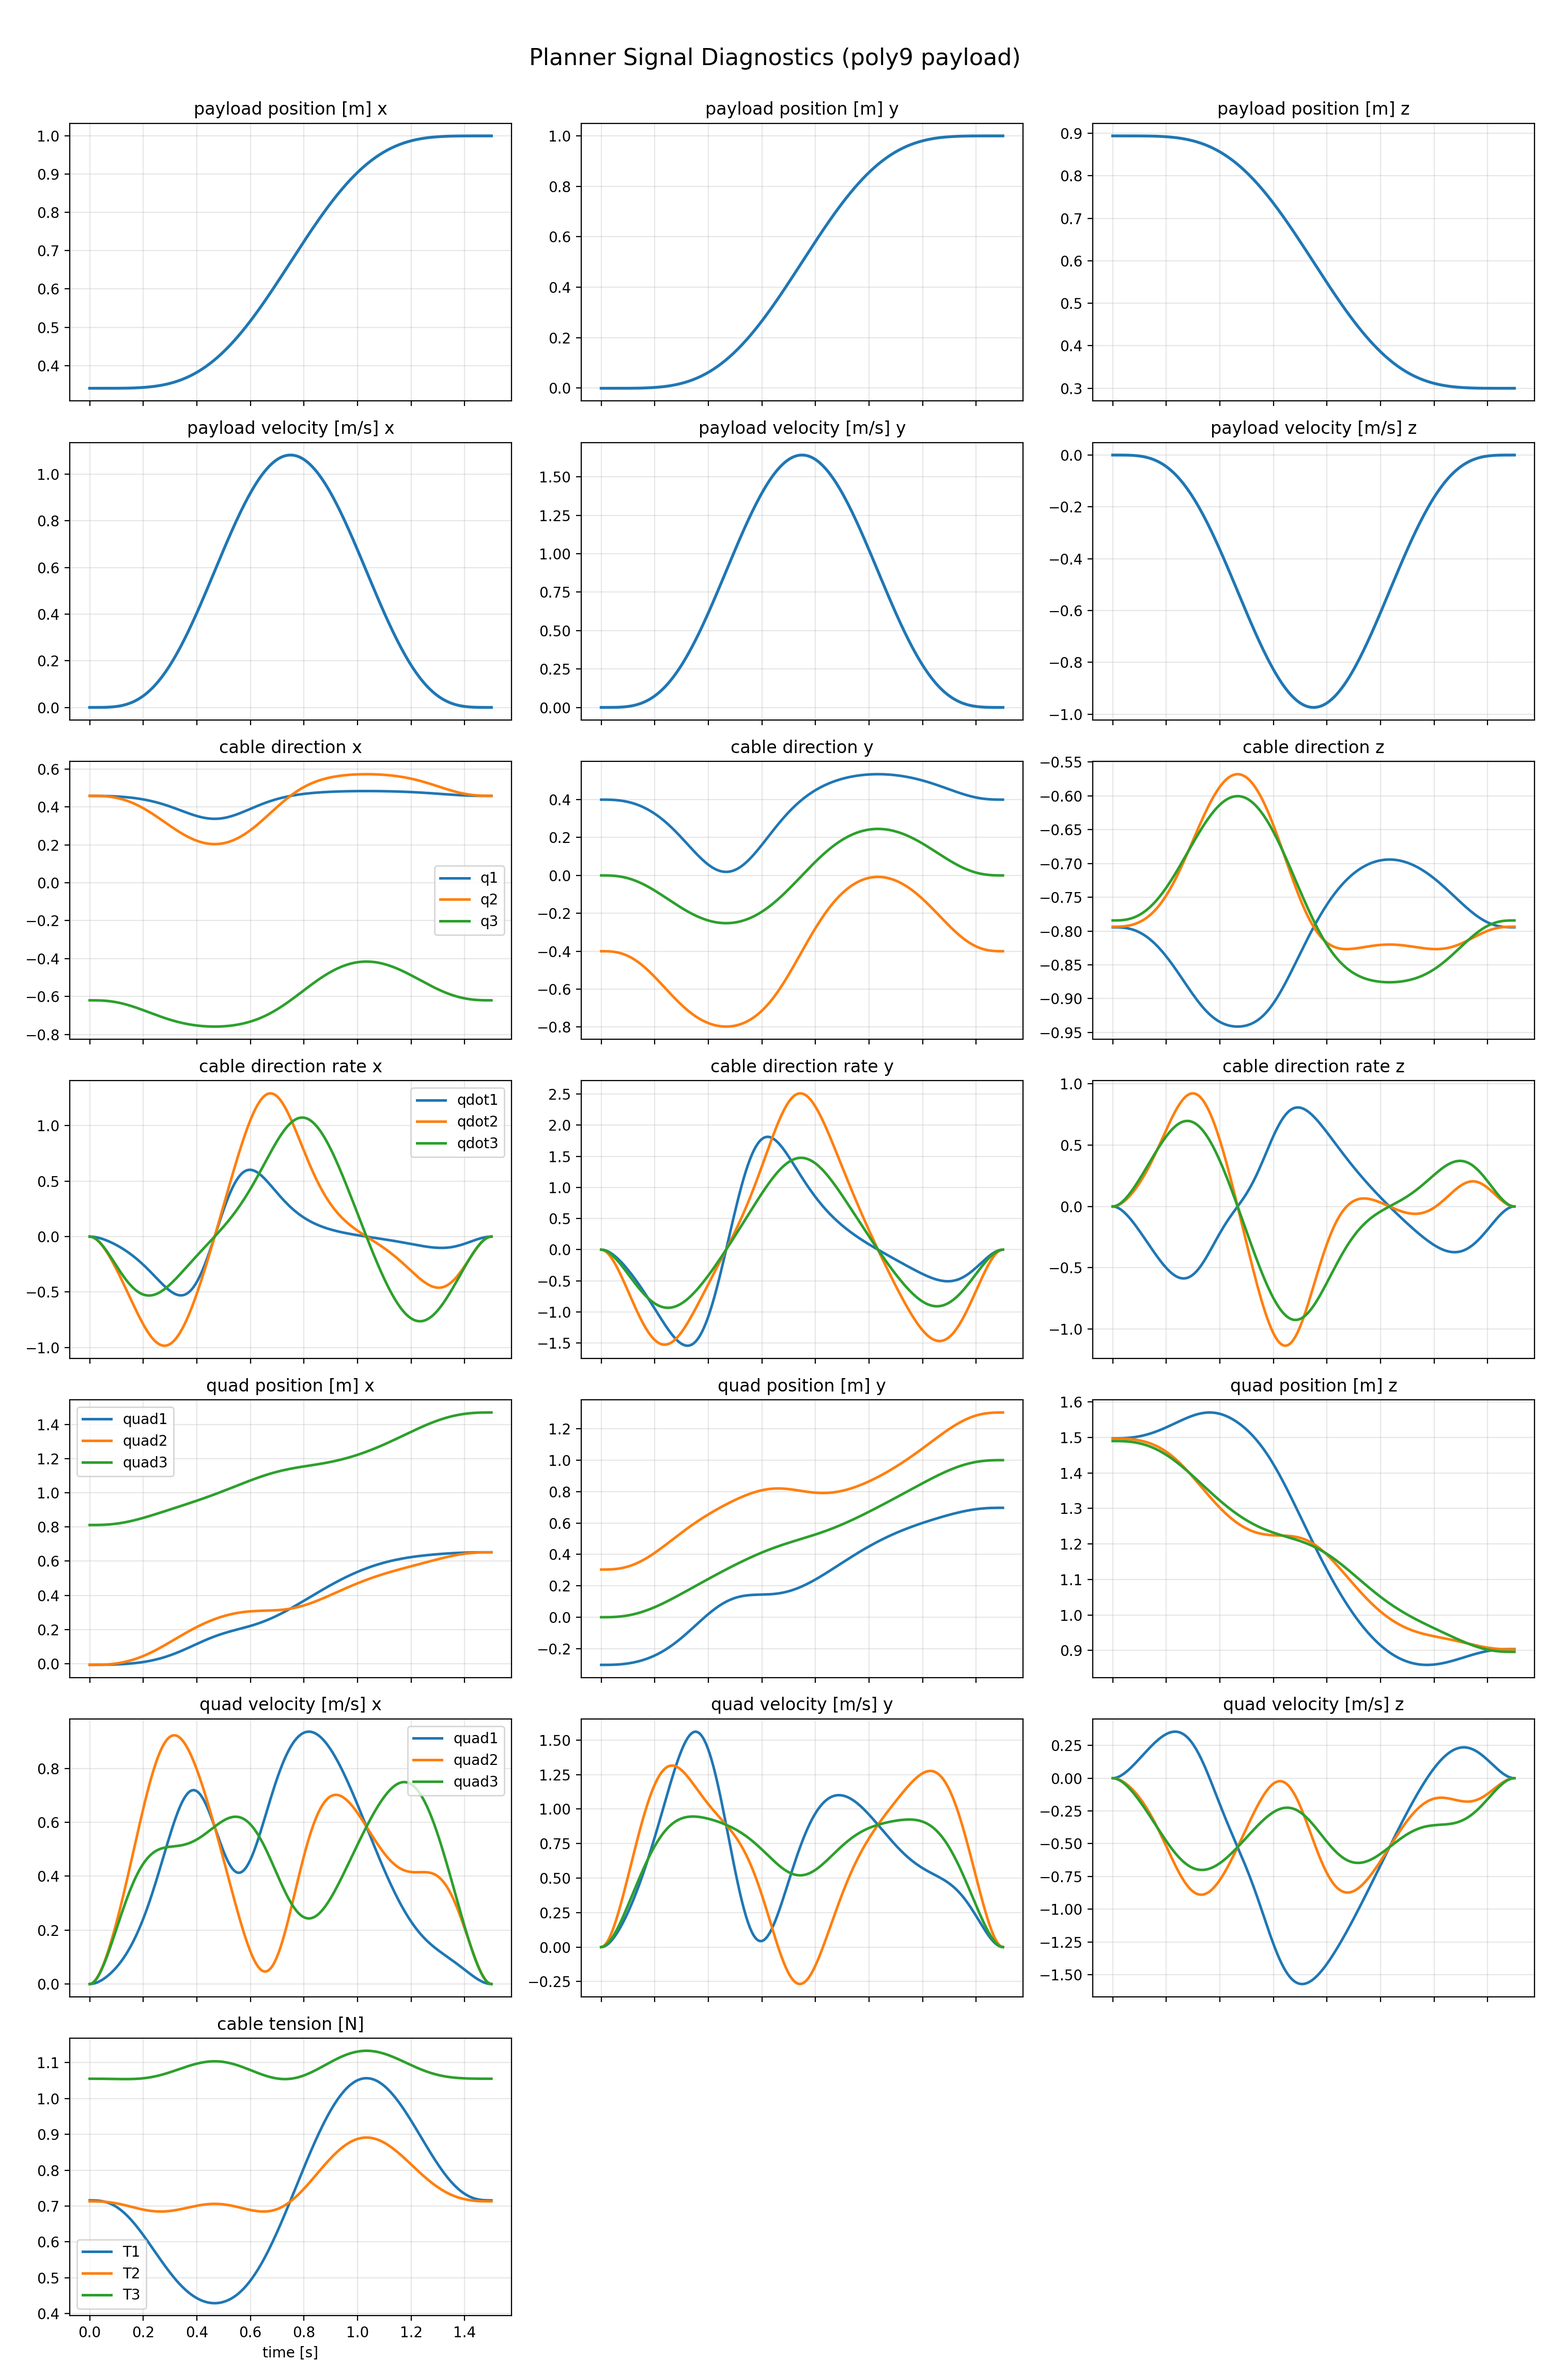
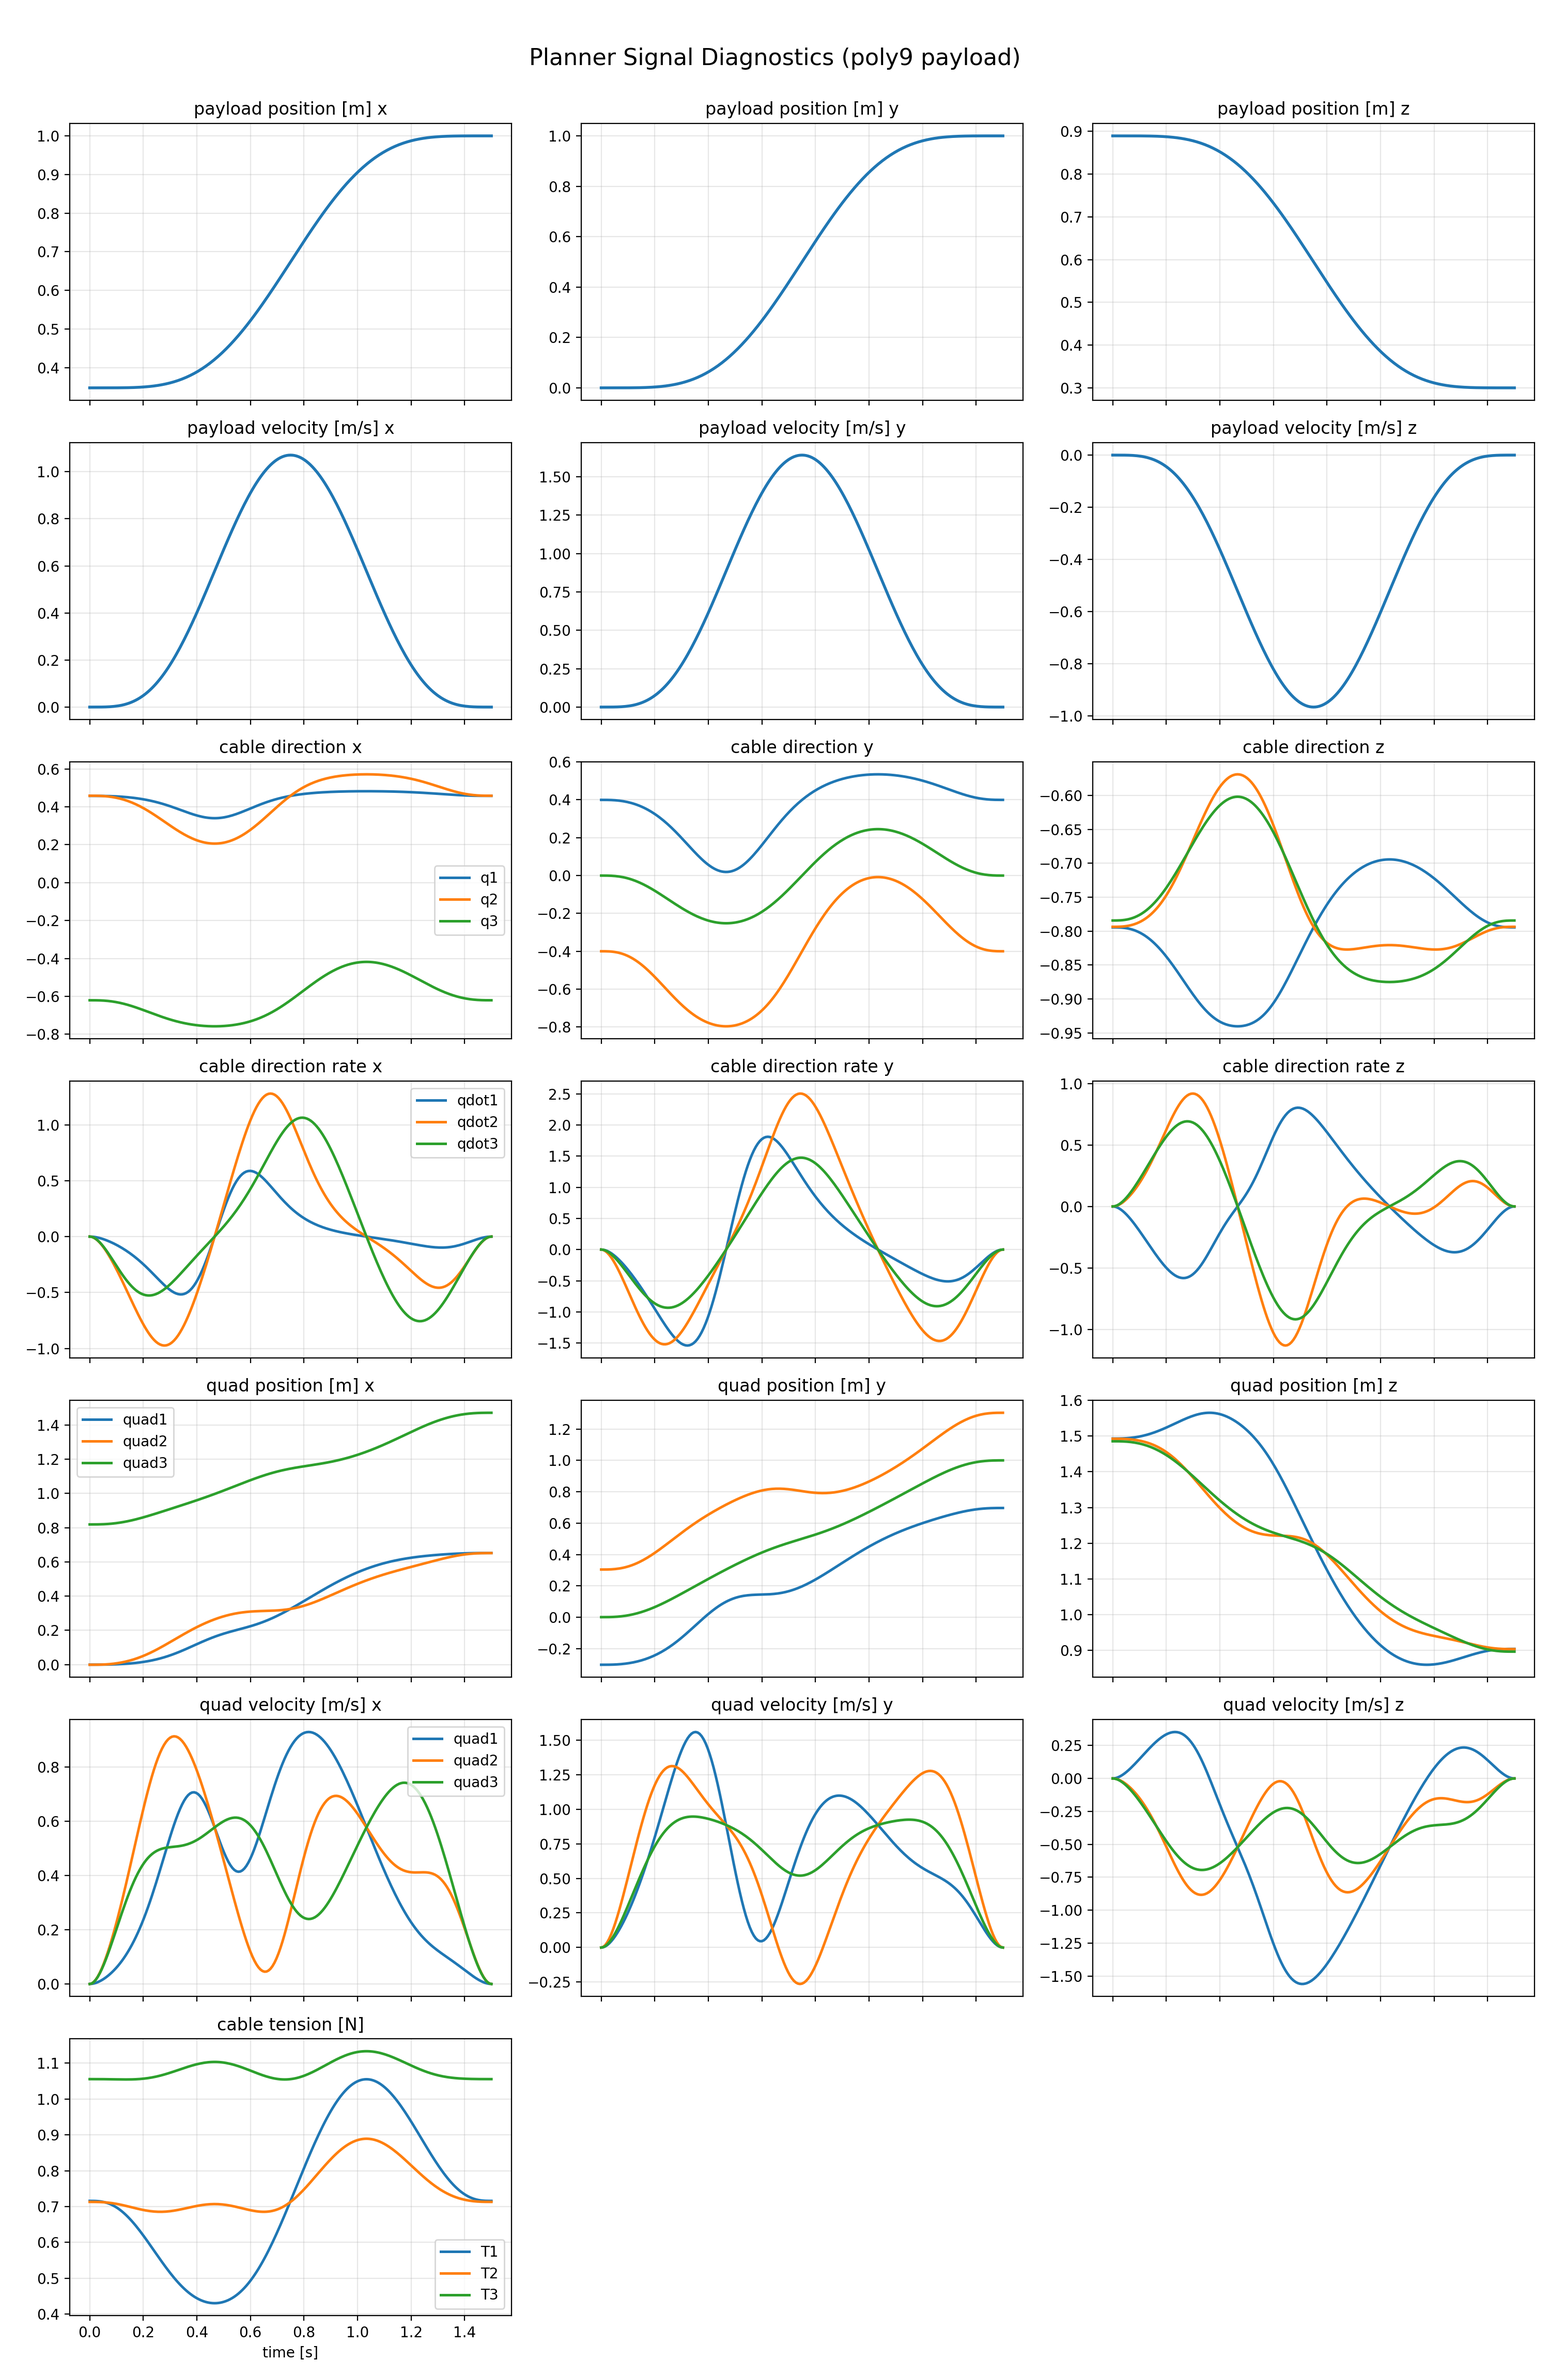
backup

Changed region(s): [[0.124, 0.8393, 0.155, 0.8704]]

diff --git a/payload_pointmass_multiple_quadrotor/point_mass_acceleration.py b/payload_pointmass_multiple_quadrotor/point_mass_acceleration.py
@@ -31,21 +31,12 @@ class PayloadControlMujocoMultiplePointMass(Node):
         super().__init__('MultiplePointMass')
 
         # Runtime parameters (mirrors dq_nmpc style parameterization).
-        self.declare_parameter('planner.ts', 0.05)
-        self.declare_parameter('planner.horizon_time', 2.0)
-        self.declare_parameter('nmpc.jerk_limit', [1.0, 1.0, 1.0, 1.0, 1.0, 1.0, 1.0, 1.0, 1.0])
-        self.declare_parameter('model.norm_regularization_eps', 1e-8)
-        self.declare_parameter('model.unit_vector_stabilization_gain', 5.0)
-        self.declare_parameter('model.angular_orthogonality_gain', 5.0)
 
         # Time Definition
         self.t_N = 1.5
         self.N_prediction = int(31)
         self.ts = self.t_N / self.N_prediction
 
-        self.norm_regularization_eps = float(self.get_parameter('model.norm_regularization_eps').value)
-        self.unit_vector_stabilization_gain = float(self.get_parameter('model.unit_vector_stabilization_gain').value)
-        self.angular_orthogonality_gain = float(self.get_parameter('model.angular_orthogonality_gain').value)
         self.reference_start_time = None
 
         # Prediction Node of the NMPC formulation
@@ -106,18 +97,16 @@ class PayloadControlMujocoMultiplePointMass(Node):
         # Init Tension of the cables so we can get initial cable direction
         self.init = np.hstack((pos_0, vel_0))
 
-        # Verification direction vectors
 
-        # create functions
         ##  ----------------------------------------------------------------- Funtion Casadi ---------------------------------
         self.payload_to_quadrotor_unit = self.quadrotor_payload_unit_vector_c()
         self.cable_angular_velocity = self.cable_angular_velocity_c()
         self.quadrotors_position = self.quadrotor_position_c()
         self.quadrotors_velocity = self.quadrotor_velocity_c()
         self.tensions = self.cable_tension_c()
-        unit_vectors_init = self.payload_to_quadrotor_unit(pos_0, np.hstack((pos_quad_1, pos_quad_2, pos_quad_3)))
         ##  ----------------------------------------------------------------- Funtion Casadi ---------------------------------
 
+        unit_vectors_init = self.payload_to_quadrotor_unit(pos_0, np.hstack((pos_quad_1, pos_quad_2, pos_quad_3)))
         # This is just the cable direction
         q1_eq = self.normalize(pos_0-pos_quad_1)
         q2_eq = self.normalize(pos_0-pos_quad_2)
@@ -137,13 +126,6 @@ class PayloadControlMujocoMultiplePointMass(Node):
 
         self.tension_min = 0.2*np.array(tensions_eq)
         self.tension_max = 10*np.array(tensions_eq)
-
-        print("Tensions")
-        print(tensions_eq)
-        print(self.tension_min)
-        print(self.tension_max)
-        print("Cable direciton")
-        print(self.n_init)
         
         ## Compute the cable initial angular velocity
         self.r_init = np.array(
@@ -156,18 +138,13 @@ class PayloadControlMujocoMultiplePointMass(Node):
         ).reshape((self.robot_num * 3,))
 
         ## Init states for the optimizer
-        self.aq1_init = np.array([0.0, 0.0, 0.0], dtype=np.double)
-        self.aq2_init = np.array([0.0, 0.0, 0.0], dtype=np.double)
-        self.aq3_init = np.array([0.0, 0.0, 0.0], dtype=np.double)
-
         self.x_0 = np.hstack((pos_0, vel_0, self.n_init, self.r_init))
 
-
-        ## Acceleration input and acceleration-state initialization.
+        ## Acceleration input equilibrium of each quadrotor
         self.u_equilibrium = np.array([0.0, 0.0, 0.0]*self.robot_num, dtype=np.double)
 
         ## Bounds for jerk input [m/s^3].
-        self.acceleration_limit = np.array(self.get_parameter('nmpc.jerk_limit').value, dtype=np.double).reshape((3*self.robot_num,))
+        self.acceleration_limit = np.array([5.0, 5.0, 5.0]*self.robot_num, dtype=np.double)
         self.u_min = -self.acceleration_limit.copy()
         self.u_max = self.acceleration_limit.copy()
 
@@ -193,11 +170,6 @@ class PayloadControlMujocoMultiplePointMass(Node):
         self.publisher_cable_direction = self.create_publisher(
             Float64MultiArray,
             "/payload/cable_direction",
-            10,
-        )
-        self.publisher_cable_manipulability = self.create_publisher(
-            Float64,
-            "/payload/cable_manipulability",
             10,
         )
 
@@ -262,7 +234,7 @@ class PayloadControlMujocoMultiplePointMass(Node):
         cols = []
         for k in range(self.robot_num):
             term = x_p - xq_p[:, k]
-            norm_term = ca.sqrt(ca.dot(term, term) + self.norm_regularization_eps)
+            norm_term = ca.sqrt(ca.dot(term, term))
             n_k = term / norm_term
             cols.append(n_k)
         quad_payload_mat = ca.hcat(cols)             # 3 x m
@@ -287,17 +259,18 @@ class PayloadControlMujocoMultiplePointMass(Node):
         # Vectorized expression:
         cols = []
         for k in range(self.robot_num):
-            term = x_p - xQ_p_matrix[:, k]
-            # Cable Direction
-            norm_term = ca.sqrt(ca.dot(term, term) + self.norm_regularization_eps)
-            n_k = term / norm_term
-
             x_Q = xQ_p_matrix[:, k]
             v_Q = xQ_v_matrix[:, k]
 
+            term = x_p - x_Q
+            # Cable Direction
+            norm_term = ca.sqrt(ca.dot(term, term))
+            n_k = term / norm_term
+            
+            # This is for the cable angular velocity
             a = x_p - x_Q
-            norm_a = ca.sqrt(ca.dot(a, a) + self.norm_regularization_eps)
-            dot_a = ca.dot(a, a) + self.norm_regularization_eps
+            norm_a = ca.sqrt(ca.dot(a, a))
+            dot_a = ca.dot(a, a)
             I = ca.MX.eye(3)
             a_dot = v_p - v_Q
 
@@ -345,9 +318,6 @@ class PayloadControlMujocoMultiplePointMass(Node):
         # Compute unit Vector
         unit = np.array(self.payload_to_quadrotor_unit(x[0:3], x_quadrotors)).reshape((self.robot_num*3, ))
 
-        # Extended Vector of the Payload
-        payload_states = np.hstack((x, unit))
-
         ## Compute cable angular velocity
         r = np.array(
             self.cable_angular_velocity(x, x_quadrotors, v_quadrotors),
@@ -357,8 +327,6 @@ class PayloadControlMujocoMultiplePointMass(Node):
         self.x_0 = np.hstack((x, unit, r))
         self.publish_cable_direction(unit)
         self.publish_cable_angular_velocity(r)
-        self.publish_cable_manipulability(unit)
-        #self.try_initialize_reference()
         return None
 
     def publish_cable_angular_velocity(self, r: np.ndarray):
@@ -371,17 +339,6 @@ class PayloadControlMujocoMultiplePointMass(Node):
         msg = Float64MultiArray()
         msg.data = np.asarray(unit, dtype=np.double).reshape((self.robot_num * 3,)).tolist()
         self.publisher_cable_direction.publish(msg)
-        return None
-
-    def cable_direction_manipulability(self, unit: np.ndarray) -> float:
-        N = np.asarray(unit, dtype=np.double).reshape((3, self.robot_num), order="F")
-        manipulability = np.sqrt(max(0.0, float(np.linalg.det(N @ N.T))))
-        return manipulability
-
-    def publish_cable_manipulability(self, unit: np.ndarray):
-        msg = Float64()
-        msg.data = self.cable_direction_manipulability(unit)
-        self.publisher_cable_manipulability.publish(msg)
         return None
 
     def update_reference_from_plan(self, t_query: float):
@@ -705,8 +662,6 @@ class PayloadControlMujocoMultiplePointMass(Node):
         linear_acceleration = acceleration_tension[0:3]
         tensions_expresion = acceleration_tension[3:6]
 
-        k_n = self.unit_vector_stabilization_gain
-        k_r = self.angular_orthogonality_gain
         a_p = acceleration_tension[0:3]
 
         n1_dot = ca.cross(r1, n1)
